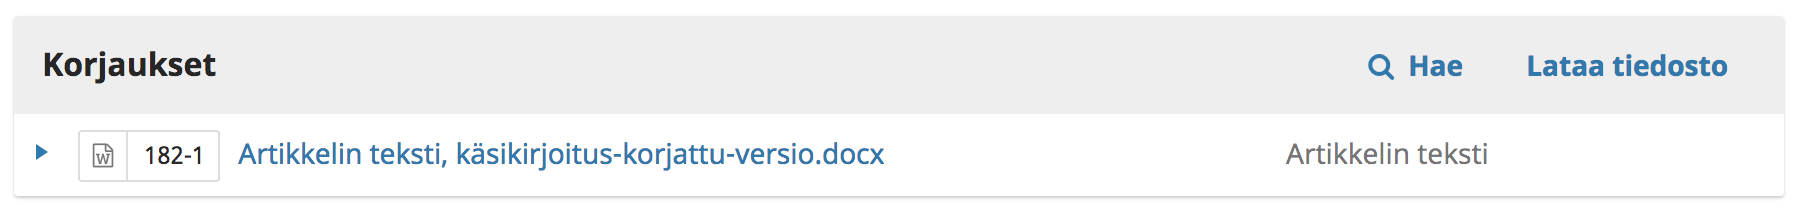
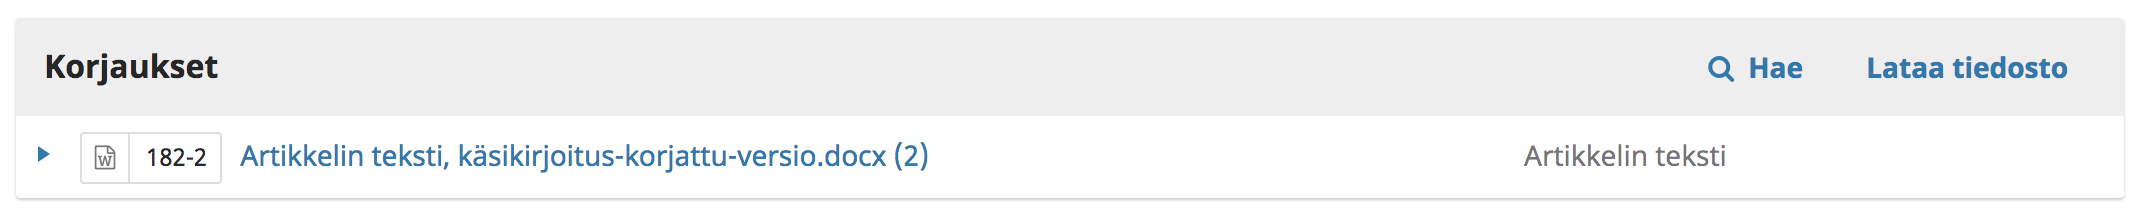
fix revision upload instructions for fi

diff --git a/learning-ojs/fi/authoring.md b/learning-ojs/fi/authoring.md
@@ -167,9 +167,13 @@ Valitse *Lataa tiedosto*.
 
 ![](./assets/learning-ojs-3-auth-responding-upload.png)
 
-Valitse ensin Artikkelin osa. Valinnalla määritetään, että onko kyse varsinaisesta käsikirjoitustiedostosta vai mahdollisesti jostakin liitetiedostosta. **Pääset lataamaan tiedostoa vasta valinnan jälkeen**. Tavallisesti oikea vaihtoehto on "Artikkelin teksti".
+Valitse vetovalikosta se tiedosto, jonka uutta versiota olet lisäämässä. 
 
-Lataa tämän jälkeen uusi tiedosto ja valitse **Jatka**.
+Lataa tämän jälkeen uusi tiedosto koneeltasi.
+
+![](./assets/learning-ojs-3-auth-responding-upload1.png)
+
+Kun tiedosto on siirretty, valitse **Jatka**.
 
 ![](./assets/learning-ojs-3-auth-responding-upload2.png)
 
